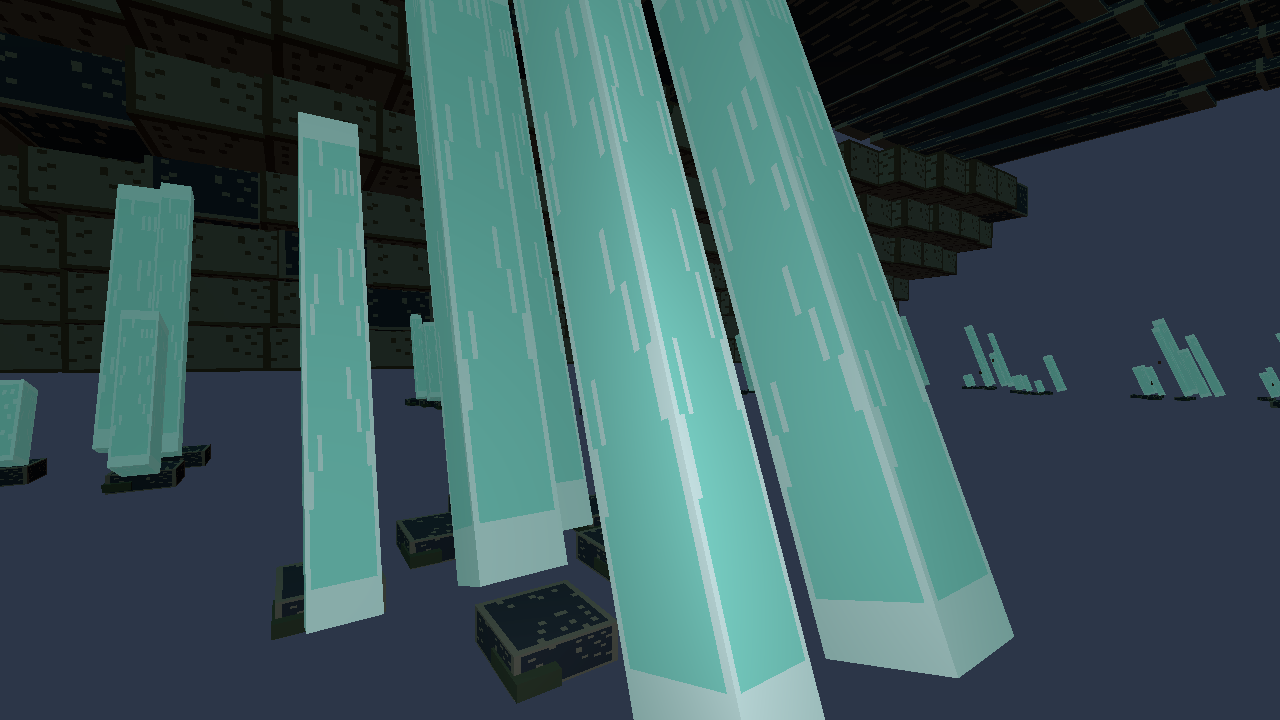
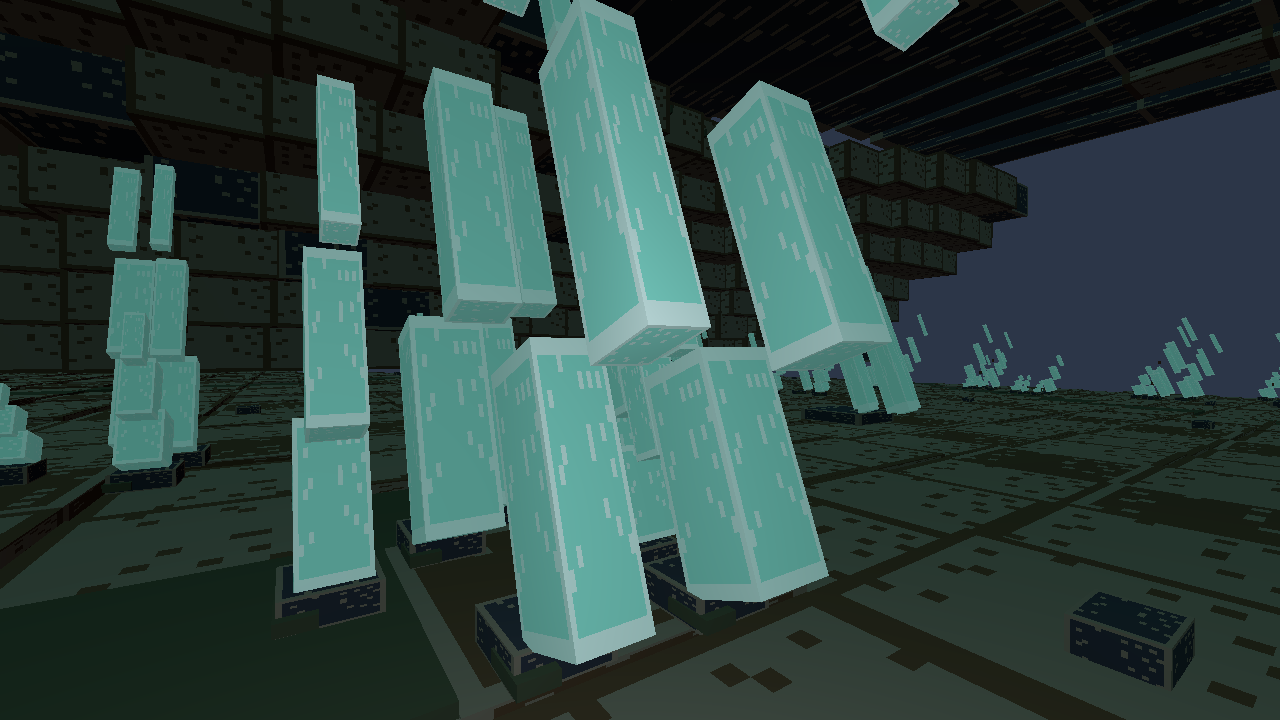
U-3 real picture critique: fill full cave floor/vault and taper cyan crystal groves

diff --git a/tools/voxel-tavern/town-blockout/underground-crystal-cavern.ts b/tools/voxel-tavern/town-blockout/underground-crystal-cavern.ts
@@ -85,6 +85,27 @@ function add(
   }));
 }
 function makeCavern() {
+  // R2 / R3 screenshot correction: the whole 180×120m chamber must have real
+  // rocky ground, not floating crystal pillars in a void beside a narrow
+  // walkway. Ground is lower than the accepted main path and the shallow river;
+  // the 4m centreline remains obstacle-free for standing avatars.
+  for (let row = 0; row < 41; row++) {
+    const north = -9.0 + row * 2.9;
+    const h = crystalCavernTrailHeight(north);
+    for (let col = 0; col < 61; col++) {
+      const east = -88.5 + col * 2.92;
+      const rough = stable(row * 61 + col, 9);
+      const inRiver = east >= 18 && east <= 60 && north >= 60 && north <= 98;
+      const shallow = Math.abs(east - crystalCavernTrailEast(north)) < 5;
+      const base = inRiver ? h - .66 : shallow ? h - .43 : h - .35 - rough * .17;
+      add((row + col) % 13 === 0 ? 'moss' : (row + col) % 4 ? 'rock' : 'slate',
+        'u3/floor/rock-tile-' + row + '-' + col,
+        east, base, north, 2.91, .3, 2.89);
+      if (!inRiver && !shallow && (row * 13 + col * 17) % 29 === 0)
+        add('shadow', 'u3/floor/lichen-boulder-' + row + '-' + col,
+          east + .35, base + .23, north - .4, .52, .36, .65);
+    }
+  }
   // R1: 120m main passage, gently descending ~2.9m between the real source
   // entry and exit foot. Floor subtiles stay below the walking plane.
   for (let i = 0; i < 97; i++) {
@@ -146,6 +167,17 @@ function makeCavern() {
     }
     add('shadow', 'u3/vault/crown-' + section, 0, vault + .42, north,
       21.4, 1.75, 5.52);
+    // The first visual review exposed two lateral strips of raw sky between
+    // crown and roof strata. Fill them with broad, irregular rock slabs,
+    // keeping the 20m+ cavern silhouette rather than introducing a flat roof.
+    for (const side of [-1, 1]) for (let bridge = 0; bridge < 4; bridge++) {
+      const fromMiddle = 12.3 + bridge * 9.0;
+      add((section + bridge) % 5 === 0 ? 'rock' : 'shadow',
+        'u3/vault/shoulder-canopy-' + section + '-' + side + '-' + bridge,
+        side * fromMiddle, vault - .31 + bridge * .07,
+        north + (bridge % 2 ? .08 : -.08),
+        9.2, 1.8 + (bridge % 3) * .15, 5.49);
+    }
   }
 
   // R1: underground shadow basin and a shallow crystal-fed river. Thin water
@@ -183,11 +215,20 @@ function makeCavern() {
       const height = .8 + stable(cluster * 11 + t, 5) * 5.3;
       add('shadow', base + '/socket-' + t, cx, h + .10, cn,
         .65, .22, .61);
-      add('crystal', base + '/spike-' + t,
-        cx + height * Math.sin(CRYSTAL_CAVERN_CANT_RAD) / 2,
-        h + height / 2 + .23, cn,
-        .31 + (t % 3) * .16, height, .33 + (t % 2) * .19,
-        false, CRYSTAL_CAVERN_CANT_RAD);
+      // The first visual review showed solid rectangular glowing sticks.
+      // Rebuild each growth as three physically narrower tilted segments;
+      // taper and offset are consistent with the single approved +20° cant.
+      for (const [level, frac, span, scale] of [
+        [0,.17,.34,1.00],[1,.51,.36,.72],[2,.84,.30,.42],
+      ] as const) {
+        const segmentHeight = height * span;
+        add('crystal', base + '/spike-' + t + '-tier-' + level,
+          cx + Math.sin(CRYSTAL_CAVERN_CANT_RAD) * height * frac,
+          h + height * frac + .23, cn,
+          (.4 + (t % 3) * .12) * scale, segmentHeight,
+          (.42 + (t % 2) * .17) * scale,
+          false, CRYSTAL_CAVERN_CANT_RAD);
+      }
       add('moss', base + '/growth-moss-' + t,
         cx + .21, h + .07, cn - .20, .38, .09, .24);
       if (t % 3 === 0) {

diff --git a/tests/town-blockout-underground-crystal-cavern.test.ts b/tests/town-blockout-underground-crystal-cavern.test.ts
@@ -52,7 +52,7 @@ test('U-3 R1 models the entire 180×120m layer, 97m path, vault, clusters, river
   assert.equal(crystalCavernPlan.minimumVaultHeight, 20);
   assert.deepEqual(crystalCavernPlan.entry, { east: 0, north: 1, height: -.064 });
   assert.deepEqual(crystalCavernPlan.exit, { east: 8.7, north: 98, height: -2.960 });
-  assert.ok(numbers.cuboids >= 3500, 'large-scale build, not an interface-only specimen');
+  assert.ok(numbers.cuboids >= 6500, 'complete cavern floor, roof and crystal clumps, not floating props');
   assert.equal(numbers.riverCells, 289);
   assert.ok(numbers.trailBlocks >= 775);
   assert.ok(numbers.quayBlocks > 150);
@@ -177,9 +177,9 @@ test('U-3 route geometry stays decoupled from unauthorized mining, crystal-mimic
     p.size.every(x=>x>0)));
   assert.ok(pieces.filter(p => p.solid).every(p => p.name.startsWith('u3/vault/') ||
     p.name.startsWith('u3/overlook/')));
-  assert.ok(pieces.every(p => p.center[0] >= -85 && p.center[0] <= 85));
+  assert.ok(pieces.every(p => p.center[0] >= -90 && p.center[0] <= 90));
   assert.ok(pieces.every(p => p.center[2] >= -12 && p.center[2] <= 120));
-  assert.ok(crystalCavernArchitecture.numbers.cuboids*12 < 55000,
+  assert.ok(crystalCavernArchitecture.numbers.cuboids*12 < 110000,
     'mobile-friendly instanced geometry should have a budget');
   assert.equal(crystalCavernTrailEast(98),8.7);
   assert.equal(crystalCavernTrailHeight(98),-2.960);

diff --git a/docs/交流区/GPT/窗C-U3水晶洞全域七轮建模与审图-2026-11-21.md b/docs/交流区/GPT/窗C-U3水晶洞全域七轮建模与审图-2026-11-21.md
@@ -11,8 +11,8 @@
 
 | 轮次 | 实体交付 / 判读 |
 | --- | --- |
-| 1 主体批量 | 按新 U-15 正典约 **180m ×120m** 走廊和洞厅布局，铺设从入口 E0/N1/H−0.064 到出口 E8.7/N98/H−2.960 的 97m 连续主线；巨石壁、断层、分层 20–33m 顶部穹洞；暗河/盆地 289 格水面 |
-| 2 主体补齐 | 62 处 3–7 枚一簇生长晶群（同向+20°），凝固铁滴、苔藓岩面、**干砌古石码头**+立柱、临水观景台和护栏、六处附着晶辉光物 |
+| 1 主体批量 | 按新 U-15 正典约 **180m ×120m** 走廊和洞厅布局，铺设从入口 E0/N1/H−0.064 到出口 E8.7/N98/H−2.960 的 97m 连续主线；巨石壁、断层、分层 20–33m 顶部穹洞；暗河/盆地 289 格水面；**第一轮截图揭示洞厅地面大片留空，二轮又增加满铺岩地 2,501 格并填满顶侧漏空，不能只铺窄道** |
+| 2 主体补齐 | 62 处 3–7 枚一簇生长晶群（同向+20°，**逐节渐细三级结构以修正初版粗方柱形**），凝固铁滴、苔藓岩面、**干砌古石码头**+立柱、临水观景台和护栏、六处附着晶辉光物 |
 | 3 修补 | 路线以 0.12m 间隔扫描半径 0.27m/身高 1.8m 的玩家胶囊不撞墙；坡度由既定入口/出口计算，局部最大高差远小于可走台阶；真实宿主必须再次认证每层站位和所有 163 个大型挡墙/观景栏杆碰撞 |
 | 4 风格 | 固定 **16×16 最近邻/禁 mipmap** 的颗粒材质；灰石/夜蓝/锈红/苔/晶辉仅用经准许的色板，按地下参考图 05/06/07 强化远暗近晶；晶体一律正向倾斜 20°，不混乱偏角 |
 | 5 细修 | 岩层裂隙、晶簇基座、凝固金属滴、码头干石缝与柱帽、苔藓、观景台栏杆均是物理可见体。晶簇为装饰层，**不得被前端自发授予矿物** |
@@ -21,9 +21,9 @@
 
 ## 可复核的模型与运行证据
 
-- 几何审计：**3,713 个实体构件**，其中 289 块暗河面、主路 779 块、码头 161 块，62 处晶簇，**163 个结构碰撞区域**，分成 **7 个 InstancedMesh 材质族**；正常单帧视角 6–7 draw calls，41,088–44,556 triangles。
-- 浏览器：本地已安装 Google Chrome、1280×720、非平滑 WebGL。独立四机位截图与 `review-stats.json` 同路径：`docs/交流区/GPT/窗C-U3晶洞建模审图-2026-11-21/`，依次 `1-entrance.png`、`2-grove.png`、`3-overlook.png`、`4-quay.png`。**四视角浏览器错误数为零，单帧光源可见 4/6**。这是独立局部模型，使用 **测试域 review-only**，不是实际玩家入洞截图。
-- 定向 `node --import tsx --test tests/town-blockout-underground-crystal-cavern.test.ts` **6/6 PASS**，`node tools/run.mjs check` **PASS**。跨域合法性、受理脚点、渲染、贴图、同偏角、碰撞均检查。产品级手机帧率和默认主世界真实进入尚未实测。
+- 几何审计：首轮 **3,713 个构件**，经浏览器逐图审查发现大片空白与晶柱过直，修补洞厅岩地、穹顶连续岩板和晶簇三级渐细后，总计 **7,002 个实体构件**，其中 289 块暗河面、主路 779 块、码头 161 块、满铺岩地 2,501 格，62 处晶簇，**163 个结构碰撞区域**，分成 **7 个 InstancedMesh 材质族**；第二轮真实 Chrome 4 视角 6–7 draw calls，80,556–84,024 triangles。
+- 浏览器：本地已安装 Google Chrome、1280×720、非平滑 WebGL。独立四机位截图与 `review-stats.json` 同路径：`docs/交流区/GPT/窗C-U3晶洞建模审图-2026-11-21/`，依次 `1-entrance.png`、`2-grove.png`、`3-overlook.png`、`4-quay.png`。**首次截图已被实体地面/顶面/晶簇形态问题打回并按同机位覆盖为第二轮截图；最终浏览器错误数为零，单帧光源可见 4/6**。这是独立局部模型，使用 **测试域 review-only**，不是实际玩家入洞截图。
+- 定向 `node --import tsx --test tests/town-blockout-underground-crystal-cavern.test.ts` **6/6 PASS**，`node tools/run.mjs check` **PASS**，`node tools/run.mjs build` **PASS**（Vite 现有超大 chunk 警告仍在）。跨域合法性、受理脚点、渲染、贴图、同偏角、碰撞均检查。产品级手机帧率和默认主世界真实进入尚未实测。
 - 如主窗要接入，需要正式水晶洞域 **domainId / origin / yaw / world height** 与矿侧 U-15 铁闸接收脚点、勇士城墙上落脚权威；不得从本机 `review-only` 坐标推正式位置。
 - **区块自洽**：石厅有完整起终边界、路径与层次；码头形制与矿洞轨道区分；全部物件无未授权文字，无所谓原住民解释/羊纹灯光（禁区核对通过）。
 
